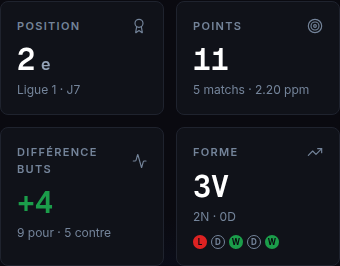
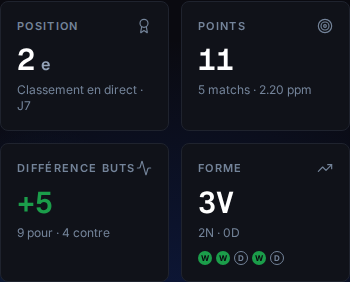
docs(L86): capture de la Nouveauté refaite sur le libellé final (Classement en direct) et une forme cohérente

diff --git a/frontend/src/lib/standings-without-live.test.ts b/frontend/src/lib/standings-without-live.test.ts
@@ -25,7 +25,7 @@ function fini(home: boolean, pour: number, contre: number, over: Partial<SeasonM
     competitionCode: 'L1', competitionId: 35, ...over,
   };
 }
-// 5 matchs terminés : 3V 2N 0D, 9 buts pour, 5 contre, 11 points (la ligne `ol` compte en plus le match en cours)
+// 5 matchs terminés : 3V 2N 0D, 9 buts pour, 4 contre, 11 points (la ligne `ol` compte en plus le match en cours)
 const termines = [fini(true, 2, 0), fini(false, 3, 1), fini(true, 1, 0), fini(true, 1, 1), fini(false, 2, 2)];
 
 describe('standingsWithoutLive — L86', () => {
